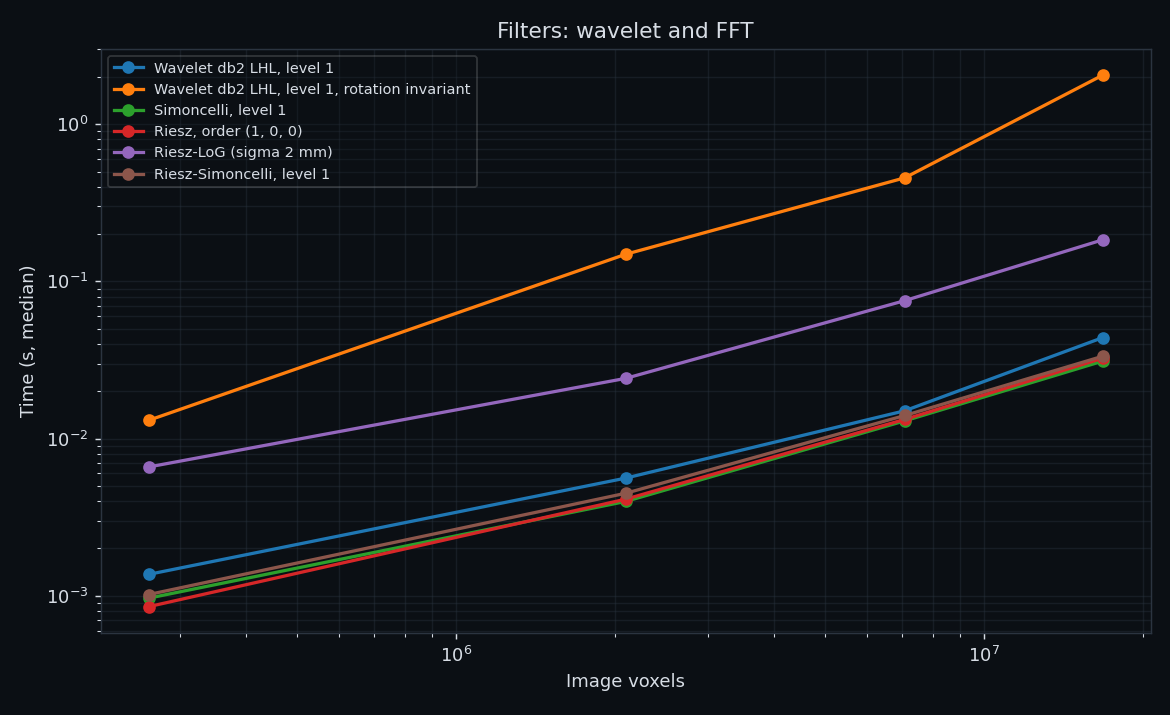
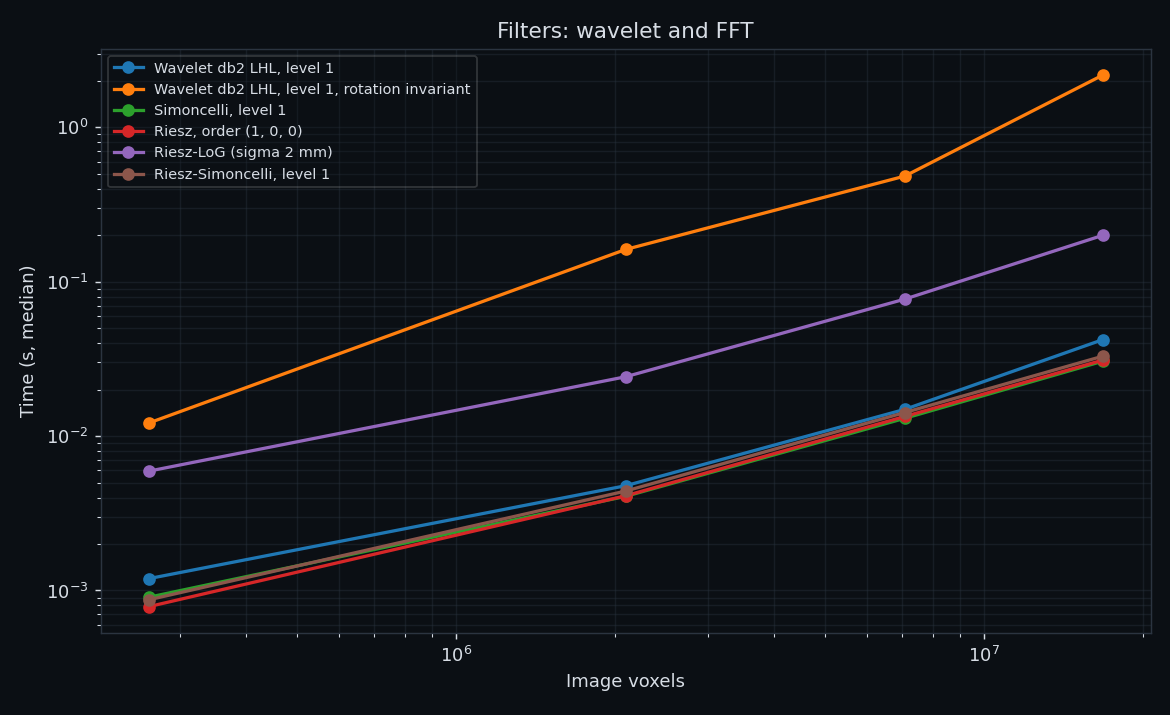
release: Set the 0.6.0 date and refresh the speed page

diff --git a/docs/benchmarks.md b/docs/benchmarks.md
@@ -27,13 +27,13 @@ ROI cubes: 25³ (9,861 ROI voxels), 50³ (101,638 ROI voxels), 75³ (315,151 ROI
 
 | Task | 25³ | 50³ | 75³ | 100³ | 150³ |
 |:--|--:|--:|--:|--:|--:|
-| Intensity (first order) | 0.1 ms | 1.3 ms | 2.8 ms | 4.3 ms | 15.7 ms |
-| Intensity histogram | 0.1 ms | 1.2 ms | 4.2 ms | 8.5 ms | 22.8 ms |
-| Intensity-volume histogram | 0.1 ms | 0.7 ms | 1.9 ms | 5.2 ms | 14.1 ms |
-| Morphology | 1.2 ms | 3.0 ms | 4.7 ms | 7.4 ms | 18.8 ms |
-| Local intensity (peaks) | 1.4 ms | 3.6 ms | 10.6 ms | 24.5 ms | 73.0 ms |
-| Spatial intensity (Moran's I, Geary's C) | 1.6 ms | 8.1 ms | 24.7 ms | 59.1 ms | 188.1 ms |
-| Texture (all 6 families) | 1.1 ms | 4.2 ms | 9.8 ms | 21.1 ms | 50.8 ms |
+| Intensity (first order) | 0.1 ms | 1.2 ms | 2.2 ms | 3.5 ms | 12.9 ms |
+| Intensity histogram | 0.1 ms | 1.2 ms | 4.2 ms | 8.6 ms | 22.8 ms |
+| Intensity-volume histogram | 0.1 ms | 0.7 ms | 2.0 ms | 5.3 ms | 14.1 ms |
+| Morphology | 1.3 ms | 2.9 ms | 4.7 ms | 7.5 ms | 19.5 ms |
+| Local intensity (peaks) | 1.4 ms | 3.6 ms | 10.1 ms | 25.2 ms | 77.6 ms |
+| Spatial intensity (Moran's I, Geary's C) | 2.0 ms | 8.7 ms | 24.3 ms | 58.0 ms | 190.5 ms |
+| Texture (all 6 families) | 1.1 ms | 4.3 ms | 9.8 ms | 20.9 ms | 54.4 ms |
 
 ### Texture Families
 
@@ -43,12 +43,12 @@ Each family on its own (`calculate_all_texture_features(..., families=[...])`), 
 
 | Task | 25³ | 50³ | 75³ | 100³ | 150³ |
 |:--|--:|--:|--:|--:|--:|
-| GLCM | 0.4 ms | 0.8 ms | 1.6 ms | 2.5 ms | 5.6 ms |
-| GLRLM | 0.4 ms | 1.0 ms | 3.6 ms | 7.2 ms | 18.1 ms |
-| GLSZM | 0.3 ms | 1.9 ms | 3.4 ms | 6.6 ms | 14.4 ms |
-| GLDZM | 0.3 ms | 2.1 ms | 4.7 ms | 9.8 ms | 24.9 ms |
-| NGTDM | 0.3 ms | 0.6 ms | 1.3 ms | 2.9 ms | 6.7 ms |
-| NGLDM | 0.3 ms | 0.6 ms | 1.3 ms | 2.9 ms | 6.8 ms |
+| GLCM | 0.4 ms | 0.7 ms | 1.5 ms | 2.5 ms | 5.6 ms |
+| GLRLM | 0.3 ms | 1.0 ms | 3.1 ms | 7.1 ms | 19.3 ms |
+| GLSZM | 0.3 ms | 1.8 ms | 3.4 ms | 6.6 ms | 14.5 ms |
+| GLDZM | 0.3 ms | 2.2 ms | 4.6 ms | 10.0 ms | 25.3 ms |
+| NGTDM | 0.3 ms | 0.6 ms | 1.3 ms | 2.8 ms | 6.8 ms |
+| NGLDM | 0.3 ms | 0.6 ms | 1.3 ms | 2.7 ms | 6.8 ms |
 
 ### Texture and Grey Levels
 
@@ -58,7 +58,7 @@ All six texture families on the 75³ cube (315,151 ROI voxels) with FBN discreti
 
 | Task | 8 levels | 16 levels | 32 levels | 64 levels | 128 levels | 256 levels |
 |:--|--:|--:|--:|--:|--:|--:|
-| Texture (all 6 families) | 8.7 ms | 9.7 ms | 10.2 ms | 9.3 ms | 9.9 ms | 12.2 ms |
+| Texture (all 6 families) | 8.3 ms | 9.9 ms | 10.0 ms | 9.2 ms | 9.5 ms | 12.5 ms |
 
 ### Filters
 
@@ -70,19 +70,19 @@ Image cubes of 1 mm voxels. Convolution filters use the mirror boundary; the FFT
 
 | Task | 64³ | 128³ | 192³ | 256³ |
 |:--|--:|--:|--:|--:|
-| Mean (support 5) | 1.2 ms | 5.5 ms | 16.3 ms | 47.1 ms |
-| Gaussian (sigma 2 mm) | 1.8 ms | 6.5 ms | 20.2 ms | 51.8 ms |
-| LoG (sigma 2 mm) | 6.1 ms | 19.6 ms | 57.5 ms | 177.7 ms |
-| Laws L5E5E5 with energy | 2.6 ms | 9.0 ms | 27.1 ms | 73.8 ms |
-| Laws L5E5E5, rotation invariant, energy | 4.2 ms | 19.3 ms | 66.1 ms | 178.2 ms |
-| Gabor (axial, rotation invariant) | 11.5 ms | 38.0 ms | 70.1 ms | 108.3 ms |
-| Gabor (3 planes, rotation invariant) | 37.4 ms | 116.2 ms | 228.9 ms | 388.2 ms |
-| Wavelet db2 LHL, level 1 | 1.4 ms | 5.6 ms | 15.0 ms | 43.9 ms |
-| Wavelet db2 LHL, level 1, rotation invariant | 13.1 ms | 148.7 ms | 455.8 ms | 2.05 s |
-| Simoncelli, level 1 | 1.0 ms | 4.0 ms | 13.0 ms | 31.1 ms |
-| Riesz, order (1, 0, 0) | 0.9 ms | 4.1 ms | 13.2 ms | 32.5 ms |
-| Riesz-LoG (sigma 2 mm) | 6.6 ms | 24.1 ms | 75.4 ms | 183.8 ms |
-| Riesz-Simoncelli, level 1 | 1.0 ms | 4.5 ms | 14.0 ms | 33.4 ms |
+| Mean (support 5) | 1.1 ms | 4.8 ms | 15.8 ms | 49.4 ms |
+| Gaussian (sigma 2 mm) | 1.6 ms | 6.5 ms | 20.3 ms | 60.1 ms |
+| LoG (sigma 2 mm) | 5.2 ms | 19.4 ms | 59.5 ms | 179.9 ms |
+| Laws L5E5E5 with energy | 2.2 ms | 8.8 ms | 28.4 ms | 92.2 ms |
+| Laws L5E5E5, rotation invariant, energy | 3.7 ms | 19.0 ms | 64.3 ms | 183.8 ms |
+| Gabor (axial, rotation invariant) | 12.0 ms | 31.8 ms | 67.1 ms | 105.8 ms |
+| Gabor (3 planes, rotation invariant) | 36.1 ms | 110.5 ms | 213.0 ms | 369.8 ms |
+| Wavelet db2 LHL, level 1 | 1.2 ms | 4.8 ms | 14.9 ms | 42.1 ms |
+| Wavelet db2 LHL, level 1, rotation invariant | 12.1 ms | 161.8 ms | 483.2 ms | 2.18 s |
+| Simoncelli, level 1 | 0.9 ms | 4.1 ms | 13.0 ms | 30.6 ms |
+| Riesz, order (1, 0, 0) | 0.8 ms | 4.1 ms | 13.4 ms | 31.1 ms |
+| Riesz-LoG (sigma 2 mm) | 5.9 ms | 24.2 ms | 77.1 ms | 199.7 ms |
+| Riesz-Simoncelli, level 1 | 0.9 ms | 4.4 ms | 14.2 ms | 32.9 ms |
 
 ### Preprocessing
 
@@ -92,13 +92,13 @@ The functions of `pictologics.preprocessing` on the CT-like image.
 
 | Task | Time (median) | Fastest | Slowest |
 |:--|--:|--:|--:|
-| Resample to 1 mm (linear) | 12.7 ms | 12.6 ms | 12.8 ms |
-| Resample the mask to 1 mm (nearest) | 2.9 ms | 2.9 ms | 3.0 ms |
-| Discretise, FBN 32 (ROI range) | 9.8 ms | 9.3 ms | 10.0 ms |
-| Discretise, FBS 25 HU | 6.7 ms | 6.6 ms | 6.8 ms |
-| Resegment, -100 to 400 HU | 3.6 ms | 3.5 ms | 3.7 ms |
-| Ring of 3 mm (grow_mask) | 10.1 ms | 9.9 ms | 10.6 ms |
-| Keep the largest component | 3.8 ms | 3.7 ms | 4.1 ms |
+| Resample to 1 mm (linear) | 12.5 ms | 12.2 ms | 13.1 ms |
+| Resample the mask to 1 mm (nearest) | 3.0 ms | 2.9 ms | 3.7 ms |
+| Discretise, FBN 32 (ROI range) | 9.3 ms | 9.2 ms | 9.8 ms |
+| Discretise, FBS 25 HU | 6.5 ms | 6.4 ms | 6.8 ms |
+| Resegment, -100 to 400 HU | 3.5 ms | 3.5 ms | 3.5 ms |
+| Ring of 3 mm (grow_mask) | 9.4 ms | 9.2 ms | 9.7 ms |
+| Keep the largest component | 3.1 ms | 2.9 ms | 3.3 ms |
 
 ### Pipeline
 
@@ -108,10 +108,10 @@ Whole pipeline runs on the CT-like image, from the image in memory to the featur
 
 | Task | Time (median) | Fastest | Slowest |
 |:--|--:|--:|--:|
-| run(): one standard configuration (standard_fbn_32) | 28.3 ms | 27.7 ms | 29.3 ms |
-| run(): the 6 standard configurations | 81.6 ms | 79.0 ms | 83.8 ms |
-| run(): resample to 1 mm, LoG, intensity | 31.9 ms | 31.2 ms | 33.8 ms |
-| run_rois(): 20 ROIs, intensity and morphology at 1 mm | 157.6 ms | 150.6 ms | 162.3 ms |
+| run(): one standard configuration (standard_fbn_32) | 27.7 ms | 27.0 ms | 28.1 ms |
+| run(): the 6 standard configurations | 80.0 ms | 78.7 ms | 80.5 ms |
+| run(): resample to 1 mm, LoG, intensity | 32.9 ms | 32.1 ms | 34.1 ms |
+| run_rois(): 20 ROIs, intensity and morphology at 1 mm | 156.8 ms | 154.2 ms | 160.2 ms |
 
 ### Threads
 
@@ -121,11 +121,11 @@ Whole pipeline runs on the CT-like image, from the image in memory to the featur
 
 | Task | Time (median) | Fastest | Slowest |
 |:--|--:|--:|--:|
-| 1 thread | 65.0 ms | 64.5 ms | 66.5 ms |
-| 2 threads | 42.4 ms | 41.4 ms | 43.2 ms |
-| 4 threads | 31.4 ms | 31.1 ms | 32.1 ms |
-| 8 threads | 26.6 ms | 26.3 ms | 27.3 ms |
-| 14 threads | 28.2 ms | 27.9 ms | 29.1 ms |
+| 1 thread | 64.4 ms | 63.6 ms | 64.7 ms |
+| 2 threads | 42.2 ms | 41.8 ms | 42.4 ms |
+| 4 threads | 30.8 ms | 30.6 ms | 31.3 ms |
+| 8 threads | 26.1 ms | 25.6 ms | 26.4 ms |
+| 14 threads | 27.2 ms | 26.9 ms | 27.6 ms |
 
 ### Loading
 
@@ -135,6 +135,6 @@ Whole pipeline runs on the CT-like image, from the image in memory to the featur
 
 | Task | Time (median) | Fastest | Slowest |
 |:--|--:|--:|--:|
-| NIfTI, gzip (.nii.gz) | 200.9 ms | 198.8 ms | 202.4 ms |
-| NIfTI (.nii) | 19.9 ms | 19.5 ms | 23.8 ms |
-| DICOM series (200 files) | 90.0 ms | 88.8 ms | 94.8 ms |
+| NIfTI, gzip (.nii.gz) | 199.5 ms | 197.2 ms | 200.3 ms |
+| NIfTI (.nii) | 19.1 ms | 18.6 ms | 32.3 ms |
+| DICOM series (200 files) | 87.9 ms | 86.8 ms | 88.4 ms |

diff --git a/docs/ibsi2_compliance.md b/docs/ibsi2_compliance.md
@@ -100,38 +100,38 @@ assert max_diff <= tolerance  # IBSI 2 Phase 1 pass criterion
 
 | Test | Filter | Phantom | Error % | Time | Memory | Status |
 |------|--------|---------|---------|------|--------|--------|
-| 1.a.1 | Mean | checkerboard | 0.00% | 5ms | 2.1MB | ✅ PASS |
-| 1.a.2 | Mean | checkerboard | 0.00% | 3ms | 2.0MB | ✅ PASS |
-| 1.a.3 | Mean | checkerboard | 0.00% | 3ms | 2.0MB | ✅ PASS |
-| 1.a.4 | Mean | checkerboard | 0.00% | 2ms | 2.0MB | ✅ PASS |
+| 1.a.1 | Mean | checkerboard | 0.00% | 3ms | 2.1MB | ✅ PASS |
+| 1.a.2 | Mean | checkerboard | 0.00% | 2ms | 2.0MB | ✅ PASS |
+| 1.a.3 | Mean | checkerboard | 0.00% | 2ms | 2.0MB | ✅ PASS |
+| 1.a.4 | Mean | checkerboard | 0.00% | 1ms | 2.0MB | ✅ PASS |
 | 1.b.1 | Mean (2D) | impulse_response | - | - | - | ⏭ SKIP |
-| 2.a | LoG | impulse_response | 0.00% | 10ms | 2.0MB | ✅ PASS |
-| 2.b | LoG | checkerboard | 0.03% | 8ms | 2.0MB | ✅ PASS |
+| 2.a | LoG | impulse_response | 0.00% | 7ms | 2.1MB | ✅ PASS |
+| 2.b | LoG | checkerboard | 0.03% | 7ms | 2.0MB | ✅ PASS |
 | 2.c | LoG (2D) | checkerboard | - | - | - | ⏭ SKIP |
 | 3.a.1 | Laws | impulse_response | 0.00% | 2ms | 2.0MB | ✅ PASS |
-| 3.a.2 | Laws | impulse_response | 0.00% | 6ms | 4.1MB | ✅ PASS |
-| 3.a.3 | Laws | impulse_response | 0.00% | 7ms | 4.1MB | ✅ PASS |
+| 3.a.2 | Laws | impulse_response | 0.00% | 5ms | 4.1MB | ✅ PASS |
+| 3.a.3 | Laws | impulse_response | 0.00% | 6ms | 4.1MB | ✅ PASS |
 | 3.b.1 | Laws | checkerboard | 0.00% | 2ms | 2.0MB | ✅ PASS |
-| 3.b.2 | Laws | checkerboard | 0.00% | 6ms | 4.1MB | ✅ PASS |
-| 3.b.3 | Laws | checkerboard | 0.00% | 7ms | 4.1MB | ✅ PASS |
+| 3.b.2 | Laws | checkerboard | 0.00% | 5ms | 4.1MB | ✅ PASS |
+| 3.b.3 | Laws | checkerboard | 0.00% | 6ms | 4.1MB | ✅ PASS |
 | 3.c.1 | Laws (2D) | checkerboard | - | - | - | ⏭ SKIP |
 | 3.c.2 | Laws (2D) | checkerboard | - | - | - | ⏭ SKIP |
 | 3.c.3 | Laws (2D) | checkerboard | - | - | - | ⏭ SKIP |
-| 4.a.1 | Gabor | impulse_response | 0.00% | 15ms | 11.8MB | ✅ PASS |
-| 4.a.2 | Gabor | impulse_response | 0.00% | 90ms | 17.3MB | ✅ PASS |
-| 4.b.1 | Gabor | sphere | 0.01% | 17ms | 11.9MB | ✅ PASS |
-| 4.b.2 | Gabor | sphere | 0.09% | 147ms | 19.4MB | ✅ PASS |
+| 4.a.1 | Gabor | impulse_response | 0.00% | 13ms | 11.9MB | ✅ PASS |
+| 4.a.2 | Gabor | impulse_response | 0.00% | 82ms | 17.8MB | ✅ PASS |
+| 4.b.1 | Gabor | sphere | 0.01% | 16ms | 12.4MB | ✅ PASS |
+| 4.b.2 | Gabor | sphere | 0.09% | 136ms | 19.3MB | ✅ PASS |
 | 5.a.1 | Daubechies 2 | impulse_response | 0.00% | 2ms | 2.0MB | ✅ PASS |
 | 5.a.2 | Daubechies 2 | impulse_response | 0.00% | 11ms | 16.2MB | ✅ PASS |
 | 6.a.1 | Coiflet 1 | sphere | 0.00% | 2ms | 2.0MB | ✅ PASS |
-| 6.a.2 | Coiflet 1 | sphere | 0.00% | 12ms | 16.1MB | ✅ PASS |
-| 7.a.1 | Haar | checkerboard | 0.00% | 17ms | 16.2MB | ✅ PASS |
-| 7.a.2 | Haar | checkerboard | 0.00% | 17ms | 16.1MB | ✅ PASS |
+| 6.a.2 | Coiflet 1 | sphere | 0.00% | 12ms | 16.2MB | ✅ PASS |
+| 7.a.1 | Haar | checkerboard | 0.00% | 16ms | 16.2MB | ✅ PASS |
+| 7.a.2 | Haar | checkerboard | 0.00% | 17ms | 16.2MB | ✅ PASS |
 | 8.a.1 | Simoncelli | checkerboard | 0.38% | 3ms | 6.1MB | ✅ PASS |
 | 8.a.2 | Simoncelli | checkerboard | 0.00% | 2ms | 6.1MB | ✅ PASS |
 | 8.a.3 | Simoncelli | checkerboard | 0.00% | 2ms | 6.1MB | ✅ PASS |
-| 9.a | Riesz-LoG | impulse_response | 0.05% | 21ms | 44.0MB | ✅ PASS |
-| 9.b.1 | Riesz-LoG | sphere | 0.32% | 19ms | 44.0MB | ✅ PASS |
+| 9.a | Riesz-LoG | impulse_response | 0.05% | 20ms | 44.0MB | ✅ PASS |
+| 9.b.1 | Riesz-LoG | sphere | 0.32% | 18ms | 44.0MB | ✅ PASS |
 | 9.b.2 | Riesz-LoG (aligned) | sphere | - | - | - | ❗ REF. |
 | 10.a | Riesz-Simoncelli | impulse_response | - | - | - | ❗ REF. |
 | 10.b.1 | Riesz-Simoncelli | pattern_1 | 0.21% | 10ms | 43.7MB | ✅ PASS |

diff --git a/README.md b/README.md
@@ -87,12 +87,12 @@ For MR or PET images, use the FBN configurations (`config_names=["standard_fbn_3
 
 | Task | Size | Time (median) |
 |:--|:--|--:|
-| run(): one standard configuration (standard_fbn_32) | CT of 512 × 512 × 200 | 28.3 ms |
-| run(): the 6 standard configurations | CT of 512 × 512 × 200 | 81.6 ms |
-| Texture (all 6 families) | 2,311,384 ROI voxels | 50.8 ms |
-| Morphology | 2,311,384 ROI voxels | 18.8 ms |
-| LoG (sigma 2 mm) | 256³ voxels | 177.7 ms |
-| Gabor (axial, rotation invariant) | 256³ voxels | 108.3 ms |
+| run(): one standard configuration (standard_fbn_32) | CT of 512 × 512 × 200 | 27.7 ms |
+| run(): the 6 standard configurations | CT of 512 × 512 × 200 | 80.0 ms |
+| Texture (all 6 families) | 2,311,384 ROI voxels | 54.4 ms |
+| Morphology | 2,311,384 ROI voxels | 19.5 ms |
+| LoG (sigma 2 mm) | 256³ voxels | 179.9 ms |
+| Gabor (axial, rotation invariant) | 256³ voxels | 105.8 ms |
 
 The median of 5 runs on one computer, after a warm-up run. See the [benchmark page](https://martonkolossvary.github.io/pictologics/benchmarks/) for all results, plots and the computer.
 

diff --git a/CHANGELOG.md b/CHANGELOG.md
@@ -2,7 +2,7 @@
 
 <!-- towncrier release notes start -->
 
-## [0.6.0] - 2026-10-03
+## [0.6.0] - 2026-10-04
 
 ### Added
 

diff --git a/docs/CHANGELOG.md b/docs/CHANGELOG.md
@@ -2,7 +2,7 @@
 
 <!-- towncrier release notes start -->
 
-## [0.6.0] - 2026-10-03
+## [0.6.0] - 2026-10-04
 
 ### Added
 
